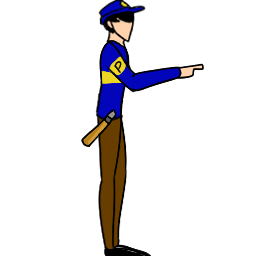
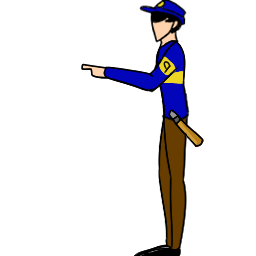
Se agregaron las escenas 2 y 5 full

Changed region(s): [[0.3125, 0.0, 0.8125, 1.0]]

diff --git a/core/src/com/mh/itesm/ScreenThree.java b/core/src/com/mh/itesm/ScreenThree.java
@@ -5,6 +5,7 @@ import com.badlogic.gdx.Gdx;
 import com.badlogic.gdx.InputProcessor;
 import com.badlogic.gdx.graphics.GL20;
 import com.badlogic.gdx.graphics.Texture;
+import com.badlogic.gdx.graphics.g2d.Sprite;
 import com.badlogic.gdx.graphics.g2d.TextureRegion;
 import com.badlogic.gdx.math.Vector2;
 import com.badlogic.gdx.physics.box2d.Body;
@@ -31,13 +32,15 @@ public class ScreenThree extends Pantalla {
     //Steven
     private PlayerSteven Steven;
 
-
+    //Cop
+    private FirstCop cop;
     private int TamEscena = 0;
     private MHMain juego;
 
     //Mom and daughter
     private Texture mom;
-    private Texture daughter;
+    private Sprite momNdaughter;
+
 
     //World world;
     //private Box2DDebugRenderer b2dr;
@@ -60,6 +63,16 @@ public class ScreenThree extends Pantalla {
         Steven = new PlayerSteven(10,64,tamMundoWidth);
         Steven.setEstadoMovimiento(PlayerSteven.EstadoMovimiento.MOV_DERECHA);
 
+        //crear al policia
+        cop = new FirstCop(1281,64,tamMundoWidth);
+        cop.setEstadoMovimiento(FirstCop.EstadoMovimiento.QUIETO);
+
+        //mama e hija
+        mom = new Texture("Characters/EsposaHija.png");
+        momNdaughter = new Sprite(mom);
+        momNdaughter.setX(750);
+        momNdaughter.setY(-2);
+
         Gdx.input.setInputProcessor(escenaMenu);
         this.juego = juego;
         //world = new World(new Vector2(0,-9.81f),true);
@@ -76,21 +89,21 @@ public class ScreenThree extends Pantalla {
     }
 
     public void handleInput(){
-        if(controller.isRightPressed()) {
-            //player.setLinearVelocity(new Vector2(100, player.getLinearVelocity().y));
-            Steven.setEstadoMovimiento(PlayerSteven.EstadoMovimiento.MOV_DERECHA);
-        }
-        else if (controller.isLeftPressed() || played == true) {
-            //player.setLinearVelocity(new Vector2(-100, player.getLinearVelocity().y));
-            Steven.setEstadoMovimiento(PlayerSteven.EstadoMovimiento.MOV_IZQUIERDA);
-        }
-        else {
-            //player.setLinearVelocity(new Vector2(0, player.getLinearVelocity().y));
-            Steven.setEstadoMovimiento(PlayerSteven.EstadoMovimiento.QUIETO);
-        }
-        if (controller.isUpPressed() && player.getLinearVelocity().y == 0) {
-            //player.applyLinearImpulse(new Vector2(0, 20f), player.getWorldCenter(), true);
-            Steven.setEstadoMovimiento(PlayerSteven.EstadoMovimiento.QUIETO);
+        if(played == false) {
+            if (controller.isRightPressed()) {
+                //player.setLinearVelocity(new Vector2(100, player.getLinearVelocity().y));
+                Steven.setEstadoMovimiento(PlayerSteven.EstadoMovimiento.MOV_DERECHA);
+            } else if (controller.isLeftPressed() || played == true) {
+                //player.setLinearVelocity(new Vector2(-100, player.getLinearVelocity().y));
+                Steven.setEstadoMovimiento(PlayerSteven.EstadoMovimiento.MOV_IZQUIERDA);
+            } else {
+                //player.setLinearVelocity(new Vector2(0, player.getLinearVelocity().y));
+                Steven.setEstadoMovimiento(PlayerSteven.EstadoMovimiento.QUIETO);
+            }
+            if (controller.isUpPressed() && player.getLinearVelocity().y == 0) {
+                //player.applyLinearImpulse(new Vector2(0, 20f), player.getWorldCenter(), true);
+                Steven.setEstadoMovimiento(PlayerSteven.EstadoMovimiento.QUIETO);
+            }
         }
     }
 
@@ -146,6 +159,7 @@ public class ScreenThree extends Pantalla {
     public void render(float delta) {
         cambiarEscena();
         Steven.actualizar();
+        cop.actualizar();
         update(Gdx.graphics.getDeltaTime());
         borrarPantalla(0.8f,0.45f,0.2f);
         Gdx.gl20.glClear(GL20.GL_COLOR_BUFFER_BIT);
@@ -153,7 +167,9 @@ public class ScreenThree extends Pantalla {
         batch.begin();
 
         batch.draw(BackgroundLayerOne, Pantalla.ANCHO/2 -BackgroundLayerOne.getWidth()/2,Pantalla.ALTO/2-BackgroundLayerOne.getHeight()/2);
+        batch.draw(momNdaughter,momNdaughter.getX(),momNdaughter.getY());
         Steven.dibujar(batch);
+        cop.dibujar(batch);
         //dibujar imagen pintura, al clickear el metodo recibira una imagen dependiendo de la que mande
         //boton
         if(nImage>0 && nImage<16){
@@ -227,7 +243,7 @@ public class ScreenThree extends Pantalla {
 
     }
     public void cambiarEscena(){
-        if(1100 == Steven.getX() &&  64 <= Steven.getY()){ //258  y 512 es la posicion del templo, lo identifique con el system.out.println
+        if(Steven.getX()>=560 && played == false){ //258  y 512 es la posicion del templo, lo identifique con el system.out.println
             // Para verificar si el usuario ya tomo los 3 pergaminos y liberar el boton de galeria de arte...
             /*liberarArte();
             this.efectoPuertaTemplo.play(PantallaMenu.volumen);
@@ -236,13 +252,18 @@ public class ScreenThree extends Pantalla {
             //juego.setScreen(new ScreenOne(juego));//Debug
 
             //Se espera un segundo
-            float delay = 0.5f; // seconds
+            float delay = 1f; // seconds
+            Steven.setEstadoMovimiento(PlayerSteven.EstadoMovimiento.QUIETO);
+            played = true;
+            cop.setEstadoMovimiento(FirstCop.EstadoMovimiento.MOV_IZQUIERDA);
+            cop.VELOCIDAD_X = 4.0f;
             System.out.println("paso uno");
             Timer.schedule(new Timer.Task(){
                 @Override
                 public void run() {
                     // Do your work
                     System.out.println("paso 2");
+                    cop.setEstadoMovimiento(FirstCop.EstadoMovimiento.QUIETO);
                     showPolice();
                 }
             }, delay);
@@ -257,13 +278,15 @@ public class ScreenThree extends Pantalla {
 
     private void showPolice() {
         //Se espera un segundo
-        float delay = 0.5f; // seconds
+        float delay = 2.0f; // seconds
 
         Timer.schedule(new Timer.Task(){
             @Override
             public void run() {
                 // Do your work
-                played = true;
+                cop.VELOCIDAD_X = 2.0f;
+                cop.setEstadoMovimiento(FirstCop.EstadoMovimiento.MOV_IZQUIERDA);
+
                 System.out.println("paso 3");
                 Steven.setEstadoMovimiento(PlayerSteven.EstadoMovimiento.MOV_IZQUIERDA);
             }

diff --git a/core/src/com/mh/itesm/ScreenFive.java b/core/src/com/mh/itesm/ScreenFive.java
@@ -54,7 +54,7 @@ public class ScreenFive extends Pantalla {
     public ScreenFive(MHMain juego) {
         //Crear a Steven
         Steven = new PlayerSteven(10,64,tamMundoWidth);
-        Steven.setEstadoMovimiento(PlayerSteven.EstadoMovimiento.MOV_DERECHA);
+        Steven.setEstadoMovimiento(PlayerSteven.EstadoMovimiento.QUIETO);
 
         Gdx.input.setInputProcessor(escenaMenu);
         this.juego = juego;
@@ -66,8 +66,8 @@ public class ScreenFive extends Pantalla {
         pinturas=new Texture[16];
         nImage=0;
 
-        createGround();
-        createPlayer();
+        /*createGround();
+        createPlayer();*/
         controller = new Controller();
     }
 
@@ -103,38 +103,7 @@ public class ScreenFive extends Pantalla {
     private void cargarTexturas() {
         BackgroundLayerOne = new Texture("ScreenFive/ScreenFiveBNG.png");
         //Imagenes de la pinturas
-        paint1 =new Texture("Puzzle1/P1.png");
-        pinturas[0]=paint1;
-        paint2 =new Texture("Puzzle1/P2.png");
-        pinturas[1]=paint2;
-        paint3=new Texture("Puzzle1/P3.png");
-        pinturas[2]=paint3;
-        paint4 =new Texture("Puzzle1/P4.png");
-        pinturas[3]=paint4;
-        paint5 =new Texture("Puzzle1/P5.png");
-        pinturas[4]=paint5;
-        paint6 =new Texture("Puzzle1/P6.png");
-        pinturas[5]=paint6;
-        paint7 =new Texture("Puzzle1/P7.png");
-        pinturas[6]=paint7;
-        paint8 =new Texture("Puzzle1/P8.png");
-        pinturas[7]=paint8;
-        paint9 =new Texture("Puzzle1/P9.png");
-        pinturas[8]=paint9;
-        paint10 =new Texture("Puzzle1/P10.png");
-        pinturas[9]=paint10;
-        paint11 =new Texture("Puzzle1/P11.png");
-        pinturas[10]=paint11;
-        paint12 =new Texture("Puzzle1/P12.png");
-        pinturas[11]=paint12;
-        paint13 =new Texture("Puzzle1/P13.png");
-        pinturas[12]=paint13;
-        paint14 =new Texture("Puzzle1/P14.png");
-        pinturas[13]=paint14;
-        paint15 =new Texture("Puzzle1/P15.png");
-        pinturas[14]=paint15;
-        paint16 =new Texture("Puzzle1/P16.png");
-        pinturas[15]=paint16;
+
 
     }
 
@@ -142,7 +111,7 @@ public class ScreenFive extends Pantalla {
     public void render(float delta) {
         cambiarEscena();
         Steven.actualizar();
-        update(Gdx.graphics.getDeltaTime());
+        //update(Gdx.graphics.getDeltaTime());
         borrarPantalla(0.8f,0.45f,0.2f);
         Gdx.gl20.glClear(GL20.GL_COLOR_BUFFER_BIT);
 
@@ -158,7 +127,7 @@ public class ScreenFive extends Pantalla {
 
         //batch.draw(puzzlePintura(),50,100);
         batch.end();
-        b2dr.render(world,camara.combined);
+        //b2dr.render(world,camara.combined);
         //batch.setProjectionMatrix(camara.combined);
         if(Gdx.app.getType() == Application.ApplicationType.Android)
             controller.draw();
@@ -179,7 +148,7 @@ public class ScreenFive extends Pantalla {
     public void resume() {
 
     }
-    public void createGround(){
+    /*public void createGround(){
         BodyDef bdef = new BodyDef();
         bdef.position.set(vista.getWorldWidth()/2,0);
         bdef.type = BodyDef.BodyType.StaticBody;
@@ -204,7 +173,7 @@ public class ScreenFive extends Pantalla {
 
         fdef.shape = shape;
         player.createFixture(fdef);
-    }
+    }*/
 
 
     @Override

diff --git a/core/src/com/mh/itesm/ScreenOne.java b/core/src/com/mh/itesm/ScreenOne.java
@@ -126,8 +126,10 @@ public class ScreenOne extends Pantalla {
     private boolean tiempoCondicionPuzzle;
     private float tiempoPuzzle;
 
+    private boolean played; //bandera se cambio de nivel
 
     public ScreenOne(MHMain juego) {
+        played = false;
         Steven = new PlayerSteven(10,64,tamMundoWidth);
         Steven.setEstadoMovimiento(PlayerSteven.EstadoMovimiento.INICIANDO);
 
@@ -149,6 +151,21 @@ public class ScreenOne extends Pantalla {
         controller = new Controller();
         texto = new Texto();
 
+        float delay = 4000.0f; // seconds
+
+        Timer.schedule(new Timer.Task(){
+            @Override
+            public void run() {
+                // Do your work
+                //LLAMA AL DIALOGO BETO
+                //
+                test();
+            }
+        }, delay);
+
+    }
+    public void test(){
+        juego.setScreen(new ScreenTwo(juego));
     }
 
     //Metodo para mover a steve
@@ -372,14 +389,17 @@ public class ScreenOne extends Pantalla {
             texto.setColor(0, 0, 0, 1);
             //Se espera un segundo
             float delay = 4; // seconds
-            Timer.schedule(new Timer.Task(){
-                @Override
-                public void run() {
-                    // Do your work
-                    //played = true;
-                    juego.setScreen(new ScreenTwo(juego));
-                }
-            }, delay);
+            if(played == false) {
+                played = true;
+                Timer.schedule(new Timer.Task() {
+                    @Override
+                    public void run() {
+                        // Do your work
+                        //played = true;
+                        juego.setScreen(new ScreenTwo(juego));
+                    }
+                }, delay);
+            }
             //SI QUEREMOS MOSTRAR EL RETRATO FINAL
             //batch.draw(paint17, ANCHO/2, ALTO/2);
             //CARGA NUEVA ESCENA FIJARNOS EN EL DELAY

diff --git a/core/src/com/mh/itesm/FirstCop.java b/core/src/com/mh/itesm/FirstCop.java
@@ -9,6 +9,7 @@ import com.badlogic.gdx.graphics.g2d.TextureRegion;
 import com.badlogic.gdx.maps.tiled.TiledMap;
 import com.badlogic.gdx.maps.tiled.TiledMapTileLayer;
 
+
 /**
  * Created by jerry2157 on 11/09/17.
  */
@@ -17,6 +18,8 @@ public class FirstCop extends Objeto{
     //Atlases
     private Texture firstCopRunning;
     private Texture firstCopIdle;
+    private Texture sightTex;
+    private Sprite sightSprite;
 
     private int SceneTam = 0;
     public float VELOCIDAD_X = 2;      // Velocidad horizontal
@@ -33,6 +36,7 @@ public class FirstCop extends Objeto{
 
     // Recibe una imagen con varios frames (ver marioSprite.png)
     public FirstCop(float x, float y, int SceneWidth) {
+        sightTex = new Texture("Characters/PoliciaESTATICO.png");
         firstCopRunning = new Texture("Characters/FirstCop/PoliciaCorriendoScaled.png");
 
         SceneTam = SceneWidth;
@@ -54,7 +58,7 @@ public class FirstCop extends Objeto{
         // Inicia el timer que contará tiempo para saber qué frame se dibuja
         timerAnimacion = 0;
         // Crea el sprite con el personaje quieto (idle)
-        sprite = new Sprite(texturaPersonaje[0][0]);    // QUIETO
+        sprite = new Sprite(sightTex);    // QUIETO
         sprite.setPosition(x,y);    // Posición inicial
 
         // Salto

diff --git a/core/src/com/mh/itesm/ScreenFour.java b/core/src/com/mh/itesm/ScreenFour.java
@@ -47,6 +47,8 @@ public class ScreenFour extends Pantalla {
     //se ha dado la vuelta y lo persigue?
     private  boolean flippedrunning;
 
+    private boolean SceneActive;
+
     private int TamEscena = 0;
     private MHMain juego;
 
@@ -67,6 +69,7 @@ public class ScreenFour extends Pantalla {
 
 
     public ScreenFour(MHMain juego) {
+        SceneActive = false;
         kicked = false;
         fliped = false;
         flippedrunning = false;
@@ -172,7 +175,10 @@ public class ScreenFour extends Pantalla {
 
                     cop.setX(Steven.getX()-1000);
                     //cop.setEstadoMovimiento(FirstCop.EstadoMovimiento.Cutting);
-                    juego.setScreen(new ScreenFive(juego)); //Primer Nivel!!!!
+                    if(SceneActive == false) {
+                        SceneActive = false;
+                        juego.setScreen(new ScreenFive(juego)); //Primer Nivel!!!!
+                    }
                 }
             }, delay);
         }

diff --git a/core/src/com/mh/itesm/ScreenTwo.java b/core/src/com/mh/itesm/ScreenTwo.java
@@ -136,8 +136,10 @@ public class ScreenTwo extends Pantalla {
         batch.end();
         b2dr.render(world,camara.combined);
         //batch.setProjectionMatrix(camara.combined);
-        if(Gdx.app.getType() == Application.ApplicationType.Android)
-            controller.draw();
+        if(Gdx.app.getType() == Application.ApplicationType.Android){
+            //controller.draw();
+        }
+
 
 
     }
